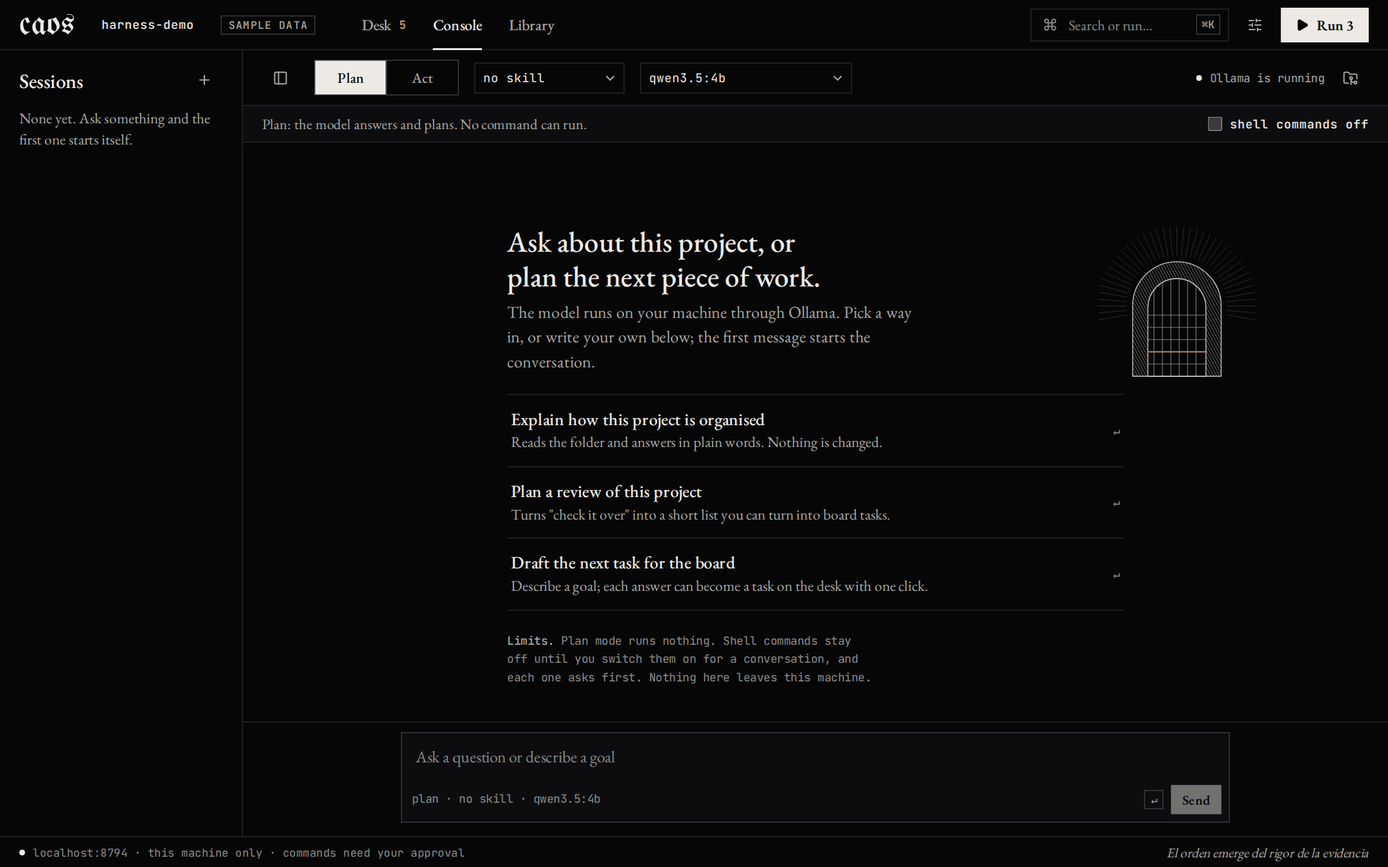
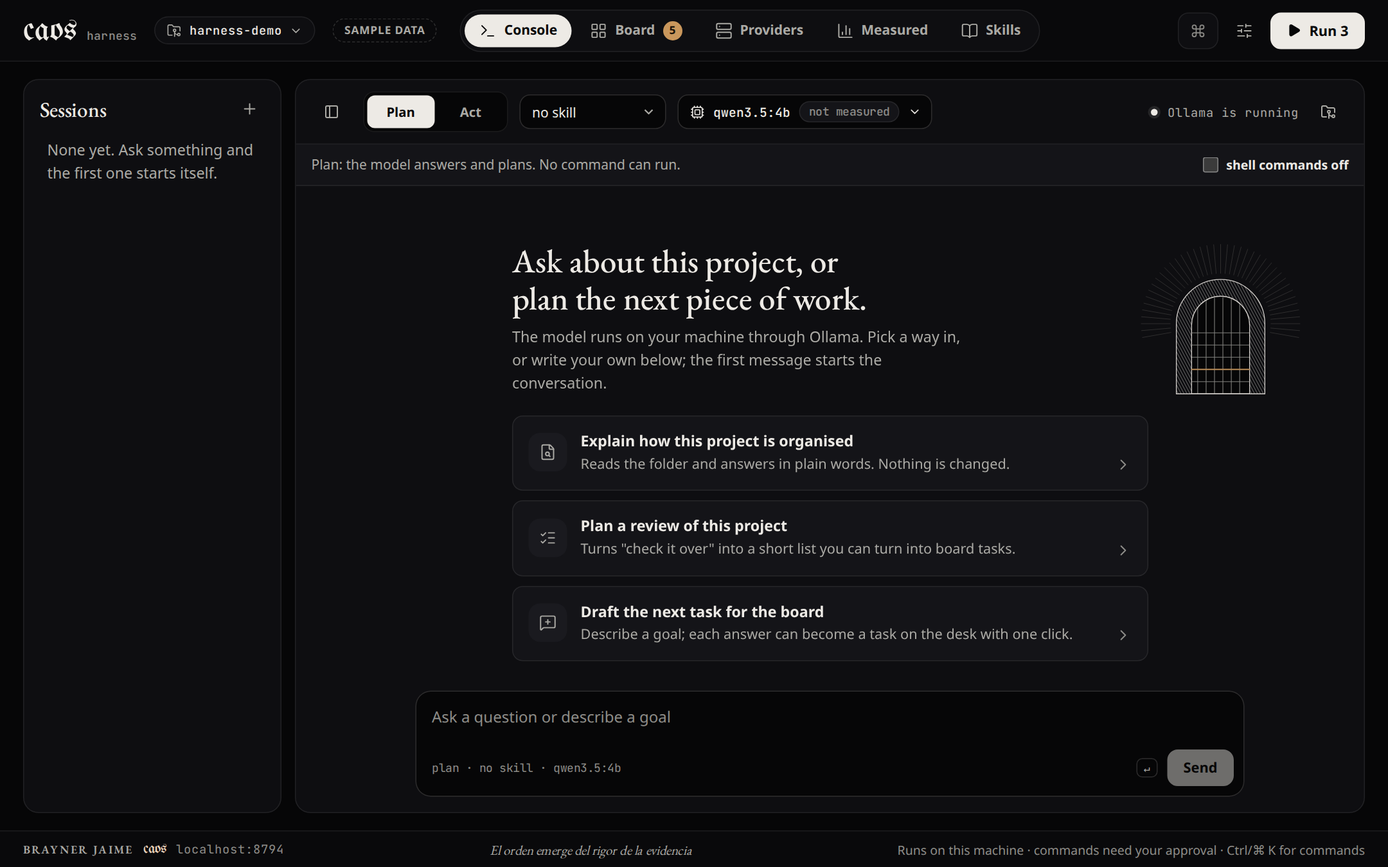
Docs: design notes for the polished dashboard, README, product decisions, new screenshots and screenshot tools

diff --git a/tools/shot.py b/tools/shot.py
@@ -31,16 +31,25 @@ with sync_playwright() as p:
         pg.screenshot(path=str(out / name))
         print("wrote", out / name)
 
-    pg = page(); pg.goto(f"{demo}/?tab=desk&task=6"); shot(pg, "board.png")
+    pg = page(); pg.goto(f"{demo}/?tab=board&task=6"); shot(pg, "board.png")
     pg.keyboard.press("Control+k"); pg.keyboard.type("refund"); shot(pg, "palette.png"); pg.close()
 
-    pg = page(); pg.goto(f"{demo}/?tab=desk"); pg.click("button[aria-label=Preferences]"); pg.click("text=Compact"); pg.keyboard.press("Escape")
-    pg.mouse.click(700, 500); shot(pg, "board-compact.png"); pg.close()
+    pg = page(); pg.goto(f"{demo}/?tab=board"); pg.click("button[aria-label=Preferences]"); pg.click("text=Compact"); pg.keyboard.press("Escape")
+    pg.mouse.click(700, 120); shot(pg, "board-compact.png"); pg.close()
 
-    pg = page({"width": 1024, "height": 768}); pg.goto(f"{demo}/?tab=desk&task=6"); shot(pg, "board-1024.png"); pg.close()
-    pg = page(); pg.goto(f"{demo}/?tab=library"); shot(pg, "library.png"); pg.close()
-    pg = page(); pg.goto(f"{demo}/?tab=console"); shot(pg, "console.png"); pg.close()
-    pg = page({"width": 390, "height": 844}, 2); pg.goto(f"{demo}/?tab=desk&task=6"); shot(pg, "board-mobile.png"); pg.close()
+    pg = page(); pg.goto(f"{demo}/?tab=board"); pg.click(".repo-chip"); shot(pg, "workspaces.png"); pg.close()
+    pg = page(); pg.goto(f"{demo}/?tab=console"); pg.click(".mp-btn"); shot(pg, "models.png"); pg.close()
+    for tab in ("console", "providers", "measured", "skills"):
+        pg = page(); pg.goto(f"{demo}/?tab={tab}"); shot(pg, f"{tab}.png")
+        if tab == "measured":
+            pg.wait_for_selector(".scatter"); pg.locator(".card:has(.scatter)").screenshot(path=str(out / "measured-chart.png")); print("wrote", out / "measured-chart.png")
+        if tab == "providers":
+            pg.wait_for_selector(".card:has(table.tbl)"); pg.locator(".card:has(table.tbl)").first.screenshot(path=str(out / "providers-models.png")); print("wrote", out / "providers-models.png")
+        pg.close()
+    pg = page({"width": 1024, "height": 768}); pg.goto(f"{demo}/?tab=board&task=6"); shot(pg, "board-1024.png"); pg.close()
+    pg = page({"width": 390, "height": 844}, 2); pg.goto(f"{demo}/?tab=board&task=6"); shot(pg, "board-mobile.png"); pg.close()
+    pg = page({"width": 390, "height": 844}, 2); pg.goto(f"{demo}/?tab=measured"); shot(pg, "measured-mobile.png")
+    pg.wait_for_selector(".scatter"); pg.locator(".scatter").scroll_into_view_if_needed(); shot(pg, "measured-chart-mobile.png"); pg.close()
     if empty:
-        pg = page(); pg.goto(f"{empty}/?tab=desk"); shot(pg, "first-run.png"); pg.close()
+        pg = page(); pg.goto(f"{empty}/?tab=board"); shot(pg, "first-run.png"); pg.close()
     b.close()

diff --git a/tools/cli_shot.py b/tools/cli_shot.py
@@ -2,7 +2,7 @@
 
 Runs the command in a pty (so colour is on, exactly as in a terminal), turns the ANSI colours into HTML and
 takes a screenshot of it. Needs playwright. Example:
-    python3 tools/cli_shot.py /tmp/harness-demo docs/cli.png "caos-harness" "caos-harness task list" "caos-harness status"
+    python3 tools/cli_shot.py /tmp/harness-demo docs/cli.png "caos-harness task list" "caos-harness status"
 """
 import html
 import os

diff --git a/docs/DESIGN-REVIEW.md b/docs/DESIGN-REVIEW.md
@@ -1,63 +1,59 @@
-# Design review: from five tabs to one desk
+# Design notes: polishing the five-view dashboard
 
-A critical review of the dashboard and the CLI as they stood on 2026-11-11, what was changed, and what was deliberately left alone. The "before" images are in [docs/review/before/](review/before/); the "after" images are the ones the README uses.
+On 2026-11-11 the dashboard was reviewed critically. A first answer was an "operations desk" (one working screen instead of tabs). The project owner preferred the five-view dashboard as it was, polished, so the desk was dropped; its code is in history (commit `4cc108a`) and some of its parts were kept because they were plain improvements. This page records what was wrong, what was done to the five views, and what was kept from the detour.
 
-## What was wrong, in order of impact
+The "before" images are in [docs/review/before/](review/before/). The "after" images are the ones the README uses.
 
-1. **It was five tabs of boxes, not a place to work.** Console, Board, Providers, Measured and Skills each opened a full-width panel with a header, an icon and a card grid. The one thing the product is about (a task's whole life: asked, routed, delivered, reviewed) lived inside one of the five. Nothing told you where to look first.
-2. **The first minute was empty and gave no direction.** The console opened on "Your workspace / Start a session to begin" and a button; the board on an empty table. No path from "I just installed this" to "I closed my first task".
-3. **The "Run" button lied.** It counted tasks waiting for a person (`Run (2)` with one runnable task), and the new-task form defaulted to an agent named `qwen` whether or not the project had one.
-4. **The brand rule was broken in four places.** Green on the Measured cards, blue and purple icons in the console, four selectable accent colours (emerald, silver, cyan) and a vignette, all in a brand that has one warm element. Corners were rounded (8 to 14 px) although the brand is square.
-5. **It looked like a template.** Every view repeated box inside box, a lucide icon beside every heading, uppercase tracked labels, the same card. The best thing in the repository, the hairline engravings, was shrunk into 30 px smudges behind queue names, where nobody could read them.
-6. **Strings that were not English or not true.** Spanish leftovers in Providers and the console (`Clave API Pendiente`, `Cuota`, `Operador`, `ahorrado`), a Fallback card marked "not implemented" that had a form, a "+$ saved" label with no data behind it, an "alignment questions" feature the server never sends, and a personal name in every footer.
-7. **Contrast and focus.** The muted text tier was 2.9:1 on black. Focus rings changed style per component. There was no keyboard way to move through tasks, and the palette was the only shortcut.
-8. **Personalisation without function.** Accent colour and background texture changed nothing a person needs; density was the only setting that did.
+## What was wrong
 
-## What the desk is now
+1. **Hard and boxed.** Sharp corners, hard borders, boxes inside boxes, and the same icon at the head of every panel. It read as a template.
+2. **Hard to read.** Mono type for everything, small sizes, a muted text tier at 2.9:1 on black, long labels cut with an ellipsis.
+3. **Empty and without a way in.** The console opened on "Start a session to begin"; the board on an empty table; nothing said where to start.
+4. **The brand rule was broken.** Green on the Measured tiles, blue and purple icons, four selectable accent colours (emerald, silver, cyan) and a vignette, in a brand that has one warm colour.
+5. **Numbers that did not explain.** Four cards with a big figure and nothing to show what it was made of.
+6. **Wrong or dead things.** The Run button counted tasks waiting for a person (which `run` does not send); the new-task form defaulted to an agent named `qwen` whether or not the project had one; Spanish leftovers; a "+$ saved" label with no data; a failover form the server says is not implemented.
+7. **Keyboard and focus.** One shortcut (⌘K), inconsistent focus rings, no way to move through tasks.
 
-![The desk](board.png)
+## What the five views are now
 
-One working screen. Left, the queues (who holds what) and, under them, the router's table (who takes what, from `router.json`). Middle, a one-line composer and the tasks grouped by what needs you: *Needs you*, *In motion*, *Closed*. Right, the selected task's whole life: who got it and why, what came back, the trace, and the verdict bar. Above, a line of four figures; each names the command that produced it, and none is computed from anything but the board's aggregates, the task list or a report a command wrote.
+![Board](board.png)
 
-The page opens on the first thing that needs you, so the trace is never an empty box on a working board; accepting or discarding moves to the next one that needs you.
+- **One shape for everything:** rounded corners at three radii (16 px for cards, 11 px for controls, 8 px for chips), a soft edge and a quiet shadow instead of hard rules, more air between rows and sections. No box sits inside a box.
+- **Readable type:** 15.5 px body in the system sans (17 px with the *Large* text preference), EB Garamond for headings and the human voice, JetBrains Mono only for data and commands, never for sentences. No label is cut where it can wrap.
+- **One icon set** (Lucide, 1.75 px stroke) for controls and states, and the repository's own hairline engravings for lanes and empty states, where they carry meaning and are large enough to read.
+- **State by colour and shape:** each task state has an icon and a pill (amber and outlined when it needs you, bone when it moves, quiet when closed). Each queue card shows one dot per open task: filled amber for *needs you*, hollow for *in motion*.
+- **Main actions in view:** *New task* and *Run N pending* at the top of the Board, the verdict buttons (Accept, Return with note, Needs evidence) with icons inside the open task.
+- **A way in:** a new project shows "Start here", three steps that check themselves off by what the board holds, each with its terminal equivalent. The console starts the session with the first message and offers three real ways in; its limits (Plan runs nothing; shell commands are off and each asks first) are stated before you type.
+- **Measured explains its figures.** Each tile carries a bar of its parts (waiting: to review vs with a person; tasks: need you, in motion, closed; reviewed: accepted, superseded, to verify; faults caught: caught of injected) and the command that produced it. Under them, each system's 95 % precision interval is drawn against the line each cost of error asks for, so you can see which tier it can take; the router's decision for each tier sits below.
+- **Skills and Providers** are card grids with one icon per skill, descriptions at reading size, and the file path as a chip.
 
 | | |
 |---|---|
-| ![First run](first-run.png) | ![Console](console.png) |
-| **First run.** A guide that checks itself off by what the board holds (a task exists, something was delivered, something was reviewed), with the terminal equivalent of each step. It hides itself after the first verdict and can be dismissed. | **Console.** The first message starts the session; three real ways in; the limits of Plan mode and shell commands stated before you type. Shell commands are still off per conversation and each one still waits for approval. |
-| ![Library](library.png) | ![Palette](palette.png) |
-| **Library.** Measured systems (with the 95 % interval drawn, because the router decides on its lower bound), the router's tiers, agents, skills and providers in one reference page, one engraving per section. | **⌘K.** Go to a view, run something, or jump to a task by number or words. |
-| ![Compact](board-compact.png) | ![Mobile](board-mobile.png) |
-| **Compact density.** Eleven tasks fit without scrolling on a laptop screen. | **390 px.** Queues become a scrolling strip, the figures a 2×2 grid with their sources, the sample label its own line; the trace opens as a sheet. |
+| ![Measured](measured.png) | ![Console](console.png) |
+| ![Skills](skills.png) | ![Providers](providers.png) |
+| ![First run](first-run.png) | ![Mobile](board-mobile.png) |
 
-![CLI](cli.png)
+## Second round: what the owner asked for after seeing the polish
 
-The CLI says the same things with the same words. `caos-harness` on its own is now a screen: where you are, what waits for you, the one or two commands worth running next. Colour only on a real terminal; never when piped and never with `NO_COLOR`.
+- **Own design, aligned with CAOS.** Every page now opens with its own engraving (a filing cabinet for the Board, orbits for Providers, a plotted line for Measured, an open book for Skills), drawn with the same hairline grammar as the rest of the set (`tools/art.py`, two new emblems: `workspace` and `models`), and a hairline that carries a short bright tick, the way the mark carries its amber one.
+- **Workspaces.** The folder chip at the top is a menu: switch between listed folders, add one (checked: absolute path, real directory, valid `harness.toml`, or create the file when asked), remove one from the list. The browser can only open folders on the list; switching is refused while a run is going, and shell commands start off again.
+- **Choosing a model.** A picker in the Console that shows, for each installed model, its size and quantisation, whether it was measured, how well, what it clears, and which agents run it. Measured models come first; a model that was never measured says the router will not choose it.
+- **Providers say what they show.** Three plain statements at the top (provider, installed model, run by) and a table of the installed models with what is known about each; the other providers only say whether their key is in the environment.
+- **The Board says more about each queue.** Each agent card shows the model it runs, its measured precision and lower bound, and which cost of error the router sends it. The new-task form labels each choice with the same figures.
+- **A chart that tells models apart.** Reliability against time: one point per measured system, a different shape per model family, filled when it runs behind the rules, dashed lines for what each cost of error asks for.
 
-## Decisions
+## What was kept from the detour
 
-- **Amber means "this needs you", and only that.** The primary button is bone, not amber. This is what makes the single warm element carry information: the count in the nav, the lane heading, the state of a task that waits for a person.
-- **Square corners, hairlines, no cards.** Structure comes from rules and spacing. Nothing sits in a box inside a box.
-- **Type by role.** Garamond for what a person writes and reads (task text, headings, notes); JetBrains Mono for evidence (ids, states, paths, figures, commands); Fraktur for the name only.
-- **Engravings only where they carry meaning, and large.** The empty trace, the first-run guide, "nothing is waiting for you" (the check), an empty queue, each Library section, and the console's policy gate. Removed from queue rows, where they were noise.
-- **Personalisation: two settings, both useful.** *Density* (comfortable or compact) and *Open on* (Desk, Console or Library). Removed: accent colours and the background texture. They live in a small popover from the top bar, stored in the browser only. The old `caos_env_settings` key is ignored.
-- **The Spanish motto stays, once.** "El orden emerge del rigor de la evidencia" is the signature of the brand, and the only Spanish on screen. It is in the footer, never in a control or a sentence the operator has to act on, with its English meaning in the tooltip. It left the console's empty state, where it competed with the instruction.
-- **The personal name left the footer.** The wordmark and the licence carry authorship; a name on every screen of a tool people will evaluate is a signature on the wrong place. It is one line to restore if wanted.
-- **Sample data is labelled.** `tools/seed_demo.py` writes a `.harness/sample` marker; `/api/state` reports `sample: true`; the top bar shows "Sample data" on every screen.
-- **Removed because it did nothing:** the failover form (the server says it is not implemented), "+$ saved" labels, alignment-question chips, the duplicate "add a task" form in the context drawer, the repository selector (the server serves one folder).
-- **Safety is unchanged and visible.** Loopback only, writes need `X-Harness: 1`, no key is ever typed or stored (a provider takes the name of an environment variable), shell commands are off per conversation and each one asks. The footer and the console say so in plain words.
+The ⌘K palette that also finds a task by number or words; `j` `k` `n` `r`; *Preferences* (density, text size, start view); a footer that says what the server does (this machine only, commands need approval); amber used only for "needs you" and a bone primary button; a "Sample data" label; the keyboard focus ring; `prefers-reduced-motion` support; the interactive terminal session.
+
+What stays from before the review, on purpose: the Fraktur name, the personal footer line, the Spanish motto (once, in the footer), the five-view navigation.
 
 ## Accessibility and motion
 
-Text tiers are chosen against `#060607`: bone 16:1, grey 8:1, muted 5.4:1. One focus ring everywhere (`2px` champagne), skip link, `aria-current` on the nav, `aria-pressed` on queues and toggles, `aria-selected` on the selected task, a labelled combobox/listbox for the palette with focus returned on close. Motion is three things: the active nav underline drawing in, rows and trace events rising once, and a hairline that runs under the figures while a run is in progress. `prefers-reduced-motion` removes all of it (the screenshots are taken with it on). The impeccable detector reports nothing on `web/src`.
+Text tiers are chosen against `#060607`: bone 16:1, grey 8.4:1, muted 5.6:1. One focus ring everywhere, skip link, `aria-current` on the navigation and the selected queue, `aria-expanded` on rows, a labelled combobox/listbox for the palette with focus returned on close. Motion is small: rows and trace events rising once, the intervals growing in, a pulse on a queue that is sending. `prefers-reduced-motion` removes all of it (the screenshots are taken with it on). The impeccable detector reports nothing on `web/src`.
 
-## What is still open
+## Still open
 
-- Between 981 and 1240 px the desk keeps its three columns with narrower queues; at 980 px and below the trace opens as a sheet over the list (focus moves into it, Esc returns to the row). There is no swipe to dismiss.
-- The Console has no empty-state illustration on narrow screens (the engraving hides below 1180 px).
-- Sessions are listed but cannot be renamed.
-- Nothing here has been used by anyone but the author yet. The first-run guide in particular wants a real first-time reader.
-
-## Independent review
-
-A fresh reviewer (the impeccable finish reviewer, no access to this conversation) read the screenshots and the code. Its material findings, all fixed: the sample label vanished on phones; the figure sources were cut off on phones and the safety line in the footer was clipped mid-word; the trace hid behind a click below 1240 px; a kicker sat above the trace title; the first-run steps dimmed below AA and used a text glyph as an icon; the console engraving touched its headline; and the task list had invalid ARIA (`role="list"` over buttons, `aria-selected` without an option role). Its question about a concept-roll seed key does not apply: the direction was fixed by the project owner, not rolled.
+- Nobody but the author has used the first-run guide.
+- The trace opens inline under its row; there is no side-by-side view of two tasks.
+- Sessions in the console cannot be renamed.

diff --git a/README.md b/README.md
@@ -38,7 +38,7 @@ flowchart LR
 | `caos_harness/memory` | One connection to a knowledge base behind an MCP server (search with a relevance score, read one note), and an in-memory stand-in for tests | `make test`, `make calibrate` |
 | `caos_harness/skills/` + `caos_harness/skills.py` | Role skills (`coder`, `qa`, `writer`, `model-selection` and others): a task queued with a skill is sent with the pointer to it first. Your own skills load from `.harness/skills/` or `CAOS_HARNESS_SKILLS` and never enter the repository | `python -m caos_harness skills` |
 | `caos_harness/app.py` | A project is a folder with `harness.toml`; an agent is any command that reads the task on stdin. `caos-harness init`, `task add` (a queue, or a cost-of-error tier and the router decides), `run`, `review`, `status` | `caos-harness --help` |
-| `caos_harness/web` + `web/` | Local dashboard (React + TypeScript, served by the standard library on 127.0.0.1): board, review desk, router table, figures read from the reports. Writes need a header a foreign page cannot send; keys are never stored | `caos-harness serve` |
+| `caos_harness/web` + `web/` | Local dashboard (React + TypeScript, served by the standard library on 127.0.0.1): five views (Console, Board, Providers, Measured, Skills), figures read from the reports. Writes need a header a foreign page cannot send; keys are never stored | `caos-harness serve` |
 | `caos_harness/engines/workstation.py` | Console for a local Ollama model. Shell commands are **off by default** and are switched on per session; then the model may propose a command, and it runs only after the operator approves it. Not a sandbox: see [docs/WORKSTATION.md](docs/WORKSTATION.md) | `caos-harness chat` |
 | `caos_harness/policy` | Tool allow-list, path guard (blocks `..`, absolute paths and `~`), validated arguments, step, tool-call and wall-time budgets | `make test` |
 | `caos_harness/engines` | The agent loop on two engines with one interface, a plain Python loop (`native.py`) and a **LangGraph** state graph (`langgraph_engine.py`), sharing the same policy and checks: a model failure does not crash the run; a citation must come from what a tool returned; a low-relevance citation becomes an abstention | `make test` |
@@ -152,20 +152,32 @@ caos-harness review 1 redo "no evidence of the run"           # back to its agen
 caos-harness serve                                  # the same board in the browser
 ```
 
-### The desk
+### The dashboard
 
-`caos-harness serve` opens one working screen, not a set of tabs: queues on the left, the tasks in the middle ordered by what needs you first, and the selected task's whole life on the right (what was asked, who got it and why, what came back, the trace) with the verdict controls under it. A line of figures sits above; each one names the command that produced it. **Console** (a local Ollama model) and **Library** (measured systems, the router, agents, skills, providers) are the other two views.
+`caos-harness serve` opens the local dashboard (this machine only) with five views: **Console** (a local Ollama model), **Board**, **Providers**, **Measured** and **Skills**.
 
-![The desk on a new project: a guide that checks itself off as the board fills](docs/first-run.png)
+![The board: queues, tasks by what needs you, and a task open with its trace](docs/board.png)
 
-- **Keys:** `j` / `k` move through tasks, `n` writes a task, `r` runs what is pending, `⌘K` / `Ctrl+K` goes anywhere or finds a task by number or words, `Esc` closes.
-- **Preferences** are two and both are useful: density (comfortable or compact) and the view the page opens on. They are stored in your browser only.
-- **Sample data:** `python3 tools/seed_demo.py /tmp/harness-demo` builds a project of made-up tasks and canned answers; the page labels it "Sample data" so nobody mistakes it for a record.
+- **Board:** four queue cards (who holds what, with a dot per open task: amber when it needs you), then the tasks grouped *Needs you*, *In motion* and *Closed*. A row opens in place with what was asked, who got it and why, what came back, the trace and the verdict buttons. A new project starts with a three-step guide that checks itself off by what the board holds.
+- **Workspaces:** the folder chip at the top switches between project folders you listed (each keeps its own board, traces and sessions in its `.harness/`). Adding a folder checks it is a real directory with a valid `harness.toml`, or creates one if you ask. The list is kept in `~/.config/caos-harness/workspaces.json`; the browser can only switch to a folder on that list, never while something is running, and shell commands start off again.
+- **Models:** the Console's model picker shows each installed Ollama model with its size, whether it was measured, how well (precision and its lower bound), which cost of error it clears and which agents run it. **Providers** is the same information as a table, one row per installed model; the other providers only say whether their key is in the environment.
+- **Measured:** four tiles (waiting for you, tasks, reviewed, faults caught), each with a bar that shows its parts and the command that produced it, then a chart of reliability against time with one point per measured system (shape for the model family, filled when it runs behind the rules) against the line each cost of error asks for, and the same data with its intervals.
+- **Keys:** `⌘K` / `Ctrl+K` goes anywhere or finds a task by number or words, `j` / `k` move through tasks, `n` writes one, `r` runs what is pending.
+- **Preferences:** density, text size (standard or large) and the view the page opens on. Stored in your browser only.
+- **Sample data:** `python3 tools/seed_demo.py /tmp/harness-demo` builds a project of made-up tasks and canned answers; the page labels it "Sample data".
 - Every figure comes from the board (`Board.stats()`), the task list, or a report a command wrote. There are no estimates.
 
-The CLI speaks in the same words, with colour only on a real terminal (never when piped, and never when `NO_COLOR` is set):
+| | |
+|---|---|
+| ![Measured: reliability against time, one shape per model family](docs/measured-chart.png) | ![Providers: every installed model and what is known about it](docs/providers-models.png) |
+| ![Choosing a model](docs/models.png) | ![Switching workspace](docs/workspaces.png) |
+| ![Console](docs/console.png) | ![Skills](docs/skills.png) |
 
-![caos-harness, task list and status in a terminal](docs/cli.png)
+### The terminal
+
+`caos-harness` on a terminal opens an interactive session: a banner with the project's queues and skills, what waits for you, and a prompt with a status line above it. Commands start with `/` (`/task`, `/run`, `/review`, `/status`, `/skills`, `/serve`, `/help`, `/quit`); Tab completes them, ↑ recalls history, Ctrl-D leaves. Plain text is offered as a new task. Scripts keep the same commands without the slash (`caos-harness status`, `task list`, `run`), and `caos-harness repl` reads commands from a pipe. Colour only on a real terminal, never when piped, never with `NO_COLOR`.
+
+![The session](docs/repl.png)
 
 Every command is also available as `python -m caos_harness <command>` (`demo`, `route`, `eval`, `regress`, `mutation`, `benchmark`, `agent-eval`, `calibrate`, `skills`, `trace`). Design notes: [docs/ARCHITECTURE.md](docs/ARCHITECTURE.md). Español: [README.es.md](README.es.md).
 

diff --git a/README.es.md b/README.es.md
@@ -60,14 +60,18 @@ make check        # 137 pruebas, umbrales, compuerta de regresión, demo del tab
 make mutation     # 26/26 fallos inyectados detectados
 python -m caos_harness            # todos los comandos
 ```
-### La mesa
+### El panel
 
-`caos-harness serve` abre una sola pantalla de trabajo: las colas a la izquierda, los encargos en el centro (primero lo que te espera) y, a la derecha, la vida completa del encargo elegido: qué se pidió, quién lo recibió y por qué, qué volvió y su traza, con el veredicto debajo. Arriba, una línea de cifras; cada una nombra el comando que la produjo. **Console** (modelo local con Ollama) y **Library** (sistemas medidos, router, agentes, skills, proveedores) son las otras dos vistas. La interfaz está en inglés.
+`caos-harness serve` abre el panel local (solo esta máquina) con cinco vistas: **Console** (modelo local con Ollama), **Board**, **Providers**, **Measured** y **Skills**. La interfaz está en inglés.
 
-- **Teclas:** `j` / `k` recorren los encargos, `n` escribe uno, `r` ejecuta lo pendiente, `⌘K` / `Ctrl+K` va a cualquier sitio o busca un encargo por número o palabras.
-- **Preferencias:** solo dos, y las dos sirven: densidad (cómoda o compacta) y la vista con la que abre. Se guardan en tu navegador.
-- **Datos de ejemplo:** `python3 tools/seed_demo.py /tmp/harness-demo` crea un proyecto de encargos inventados; la página lo rotula «Sample data».
-- La CLI usa las mismas palabras, con color solo en una terminal real (nunca por tubería ni con `NO_COLOR`).
+- **Board:** cuatro tarjetas de colas (quién tiene qué, con un punto por encargo abierto: ámbar si te espera) y los encargos agrupados en *Needs you*, *In motion* y *Closed*. Una fila se abre en su sitio con lo pedido, quién lo recibió y por qué, lo que volvió, la traza y los botones de veredicto. Un proyecto nuevo empieza con una guía de tres pasos que se marca sola según lo que hay en el tablero.
+- **Measured:** cuatro fichas con barras que muestran sus partes y el comando que las produjo, y el intervalo de precisión de cada sistema frente a la línea que pide cada costo de error.
+- **Teclas:** `⌘K` / `Ctrl+K`, `j` / `k`, `n`, `r`. **Preferencias:** densidad, tamaño de texto y vista inicial, guardadas en tu navegador.
+- **Datos de ejemplo:** `python3 tools/seed_demo.py /tmp/harness-demo`; la página los rotula «Sample data».
+
+### La terminal
+
+`caos-harness` en una terminal abre una sesión interactiva: banner con colas y skills, lo que te espera y un prompt con línea de estado. Los comandos empiezan con `/` (`/task`, `/run`, `/review`, `/status`, `/skills`, `/serve`, `/help`, `/quit`), Tab completa, ↑ recupera el historial. Para scripts siguen los mismos comandos sin barra. Color solo en terminal real (nunca por tubería ni con `NO_COLOR`).
 
 La evaluación del agente necesita [Ollama](https://ollama.com) y una copia de caos-cerebro: `make agent-eval MODEL=qwen2.5:7b ENGINE=langgraph CEREBRO=/ruta/a/caos-cerebro`.
 

diff --git a/PRODUCT.md b/PRODUCT.md
@@ -29,9 +29,9 @@ A project folder with `harness.toml`; agents are commands. The operator adds tas
 - Undecided: multi-user review with reviewer names; remote access.
 
 ## Brand Commitments
-CAOS identity as recorded in the brand note of 2026-09-28: "nocturnal, sober". Palette: negro #060607, tinta #101013, borde #26262A, tenue #5C5C5A, gris #93938F, hueso #EDEAE5, champán #EBD3BB, ámbar #C9975C. Three voices: UnifrakturMaguntia for the name only; EB Garamond for the human voice; JetBrains Mono for evidence (figures, commands, paths). One warm element per piece. Square corners. The CLI carries the same identity (user, 2026-11-10).
+CAOS identity as recorded in the brand note of 2026-09-28: "nocturnal, sober". Palette: negro #060607, tinta #101013, borde #26262A, tenue #5C5C5A, gris #93938F, hueso #EDEAE5, champán #EBD3BB, ámbar #C9975C. Three voices: UnifrakturMaguntia for the name only; EB Garamond for the human voice; JetBrains Mono for evidence (figures, commands, paths). One warm element per piece. The CLI carries the same identity (user, 2026-11-10).
 
-Interface decisions (2026-11-11, see docs/DESIGN-REVIEW.md): the dashboard is one working screen (the desk: queues, tasks by what needs the operator, the selected task's trace and verdict) plus Console and Library. Amber means "this needs you" and nothing else; the primary button is bone. Personalisation is density and start view only. The Spanish motto appears once, in the footer, as the brand's signature. Sample data is always labelled.
+Interface decisions (2026-11-11, owner's direction, see docs/DESIGN-REVIEW.md): the dashboard keeps its five views (Console, Board, Providers, Measured, Skills), polished: rounded cards at three radii, soft edges and quiet shadows, readable type (system sans body at 15.5 px, EB Garamond headings, mono only for data and commands), one icon set plus the repository's hairline engravings as the pages' own plates. Amber means "this needs you" in every control and figure; the primary button is bone. Personalisation is density, text size and start view. A workspace menu switches between listed project folders. Sample data is always labelled. The Spanish motto appears once, in the footer.
 
 ## Evidence on Hand
 Reports under `reports/` (agent eval, benchmarks, mutation), the deterministic demo (`make demo`), and aggregate use of the original board: 115 tasks between 2026-09-29 and 2026-11-09, 86 reviewed. No customers, testimonials or pricing exist; none may be shown.

diff --git a/docs/QUICKSTART.md b/docs/QUICKSTART.md
@@ -56,4 +56,8 @@ make mutation            # injects 26 faults and counts how many the tests catch
 
 ## The dashboard in two minutes
 
-`caos-harness serve`, then open http://127.0.0.1:8791. A new project shows a "Start here" guide on the desk: add a task, run it, review what came back. Each step is checked off by what the board holds, not by what you clicked. Press `⌘K` to jump anywhere, `n` to write a task, `j` / `k` to move through them. To look around without any model, build the sample project (`python3 tools/seed_demo.py /tmp/harness-demo`) and serve that folder: the page says "Sample data" on every screen.
+`caos-harness serve`, then open http://127.0.0.1:8791. A new project shows a "Start here" guide on the Board: add a task, run it, review what came back. Each step is checked off by what the board holds, not by what you clicked. Press `⌘K` to jump anywhere, `n` to write a task, `j` / `k` to move through them. To look around without any model, build the sample project (`python3 tools/seed_demo.py /tmp/harness-demo`) and serve that folder: the page says "Sample data" on every screen.
+
+## The terminal session
+
+`cd <your project> && caos-harness` opens the interactive session (needs a `harness.toml`; `caos-harness init` writes one). `/help` lists the commands; `/serve` starts the dashboard without leaving.
